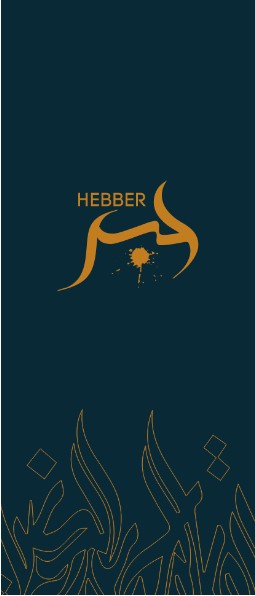
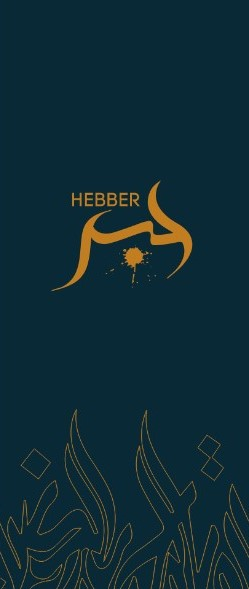
splash screen

diff --git a/src/containers/Splash/index.js b/src/containers/Splash/index.js
@@ -1,17 +1,19 @@
 import React, {useState} from 'react';
-import {View} from 'react-native';
-import {AppText, Screen} from '../../components/common';
-
-import {Color} from '../../constants/Colors';
+import {Image, StyleSheet} from 'react-native';
 
 const Splash = (props) => {
   return (
-    <Screen backgroundColor={Color.background}>
-      <View key="header"></View>
-      <View key="content">
-        <AppText>Splash</AppText>
-      </View>
-    </Screen>
+    <Image
+      style={styles.Image}
+      resizeMode="stretch"
+      source={require('../../assets/images/background.jpg')}
+    />
   );
 };
+const styles = StyleSheet.create({
+  Image: {
+    width: '100%',
+    height: '100%',
+  },
+});
 export default Splash;
